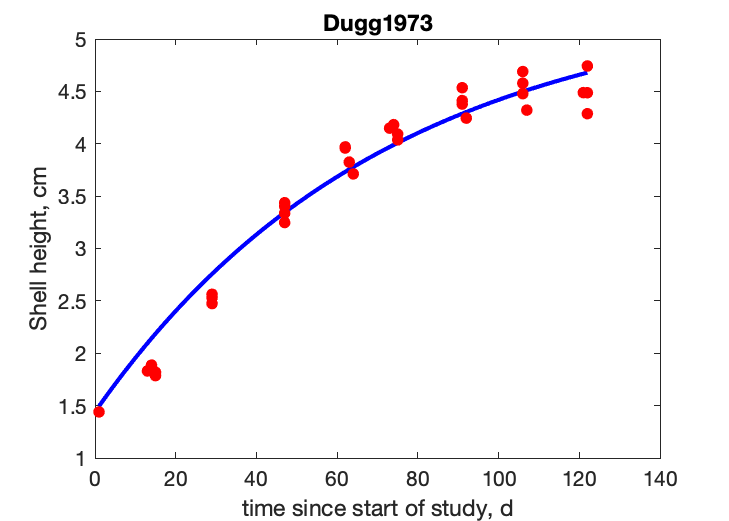
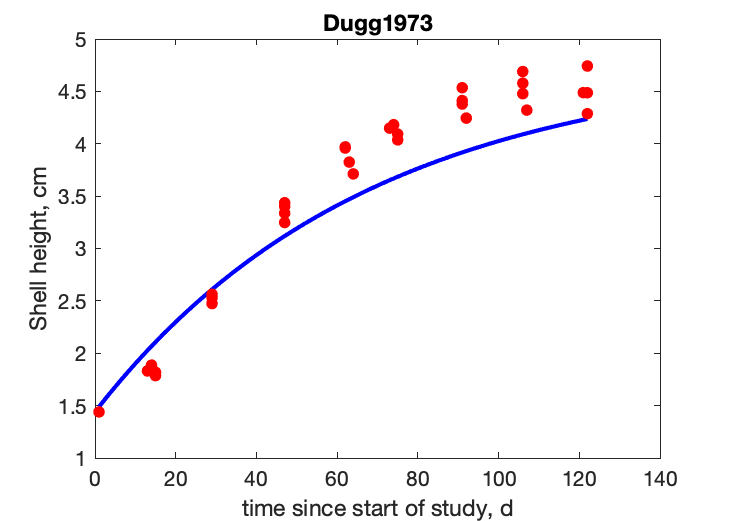
woops

diff --git a/Argopecten_irradians/Argopecten_irradians_res.html b/Argopecten_irradians/Argopecten_irradians_res.html
@@ -44,7 +44,7 @@
   </div>
 
   <div class="par">
-  <h4>COMPLETE = 2.5; MRE =    0.213; SMSE =    0.325 </h4>
+  <h4>COMPLETE = 2.5; MRE =    0.166; SMSE =    0.222 </h4>
   </div>
 
   <p class="clear"></p>
@@ -53,30 +53,30 @@
   <h2>Data & predictions</h2>
   <TABLE id="prd">
     <TR  class="head"><TH>data</TH> <TH>prd</TH> <TH>RE</TH>  <TH>symbol</TH> <TH>units</TH> <TH>description</TH> </TR>
-    <TR><TD>  1</TD> <TD>1.246</TD> <TD>0.2461</TD> <TD>ab</TD> <TD>d</TD> <TD>age at birth</TD></TR>
-    <TR><TD>12.2</TD> <TD>2.238</TD> <TD>0.8165</TD> <TD>aj</TD> <TD>d</TD> <TD>age at metamorphosis</TD></TR>
-    <TR><TD>365</TD> <TD>336.3</TD> <TD>0.07867</TD> <TD>ap</TD> <TD>d</TD> <TD>age at puberty</TD></TR>
-    <TR><TD>790</TD> <TD>790</TD> <TD>2.328e-05</TD> <TD>am</TD> <TD>d</TD> <TD>life span</TD></TR>
-    <TR><TD>0.0081</TD> <TD>0.008778</TD> <TD>0.08376</TD> <TD>Lb</TD> <TD>cm</TD> <TD>shell length at birth</TD></TR>
-    <TR><TD>0.018</TD> <TD>0.01661</TD> <TD>0.07734</TD> <TD>Lj</TD> <TD>cm</TD> <TD>shell length at metamorphosis</TD></TR>
-    <TR><TD>5.5</TD> <TD>5.15</TD> <TD>0.0636</TD> <TD>Lp</TD> <TD>cm</TD> <TD>shell length at puberty</TD></TR>
-    <TR><TD>  9</TD> <TD>8.956</TD> <TD>0.004908</TD> <TD>Li</TD> <TD>cm</TD> <TD>ultimate shell length</TD></TR>
-    <TR><TD>8.39e-07</TD> <TD>9.482e-07</TD> <TD>0.1302</TD> <TD>Wdb</TD> <TD>g</TD> <TD>dry tissue weight at birth</TD></TR>
-    <TR><TD>4.86e-06</TD> <TD>6.421e-06</TD> <TD>0.3212</TD> <TD>Wdj</TD> <TD>g</TD> <TD>dry tissue weight at metamorphosis</TD></TR>
-    <TR><TD>1.6</TD> <TD>1.11</TD> <TD>0.3059</TD> <TD>Wdp</TD> <TD>g</TD> <TD>dry tissue weight at puberty</TD></TR>
-    <TR><TD>5.3</TD> <TD>5.839</TD> <TD>0.1017</TD> <TD>Wdi</TD> <TD>g</TD> <TD>ultimate dry tissue weight</TD></TR>
-    <TR><TD>2137</TD> <TD>  0</TD> <TD>  1</TD> <TD>Ri1</TD> <TD>#/d</TD> <TD>maximum reprod rate at SL 5.15 cm</TD></TR>
-    <TR><TD>4414</TD> <TD>4022</TD> <TD>0.08866</TD> <TD>Ri2</TD> <TD>#/d</TD> <TD>maximum reprod rate at SL 5.49 cm</TD></TR>
-    <TR><TD>0.2</TD> <TD>0.189</TD> <TD>0.05518</TD> <TD>GSI</TD> <TD>-</TD> <TD>gonado somatic index</TD></TR>
-    <TR><TD colspan="2">see figure</TD> <TD>0.04571</TD> <TD>tL1</TD> <TD colspan="2">time since start of study, <font color="blue"><i>vs.</i></font> Shell height</TD>
-    <TR><TD colspan="2">see figure</TD> <TD>0.1235</TD> <TD>tL2</TD> <TD colspan="2">Time since start of study, <font color="blue"><i>vs.</i></font> Shell height</TD>
-    <TR><TD colspan="2">see figure</TD> <TD>0.2832</TD> <TD>tWd</TD> <TD colspan="2">Time since start of study, <font color="blue"><i>vs.</i></font> shell-free wet weight</TD>
-    <TR class="psd"><TD>0.02</TD> <TD>0.01243</TD> <TD>0.3787</TD> <TD>psd.v</TD> <TD>cm/d</TD> <TD>energy conductance</TD></TR>
-    <TR class="psd"><TD>0.8</TD> <TD>0.7698</TD> <TD>0.03774</TD> <TD>psd.kap</TD> <TD>-</TD> <TD>allocation fraction to soma</TD></TR>
-    <TR class="psd"><TD>0.95</TD> <TD>0.95</TD> <TD>  0</TD> <TD>psd.kap_R</TD> <TD>-</TD> <TD>reproduction efficiency</TD></TR>
-    <TR class="psd"><TD> 18</TD> <TD>716.6</TD> <TD>38.81</TD> <TD>psd.p_M</TD> <TD>J/d.cm^3</TD> <TD>vol-spec som maint</TD></TR>
+    <TR><TD>  1</TD> <TD>1.204</TD> <TD>0.2043</TD> <TD>ab</TD> <TD>d</TD> <TD>age at birth</TD></TR>
+    <TR><TD>12.2</TD> <TD>2.304</TD> <TD>0.8112</TD> <TD>aj</TD> <TD>d</TD> <TD>age at metamorphosis</TD></TR>
+    <TR><TD>365</TD> <TD>367.2</TD> <TD>0.005992</TD> <TD>ap</TD> <TD>d</TD> <TD>age at puberty</TD></TR>
+    <TR><TD>790</TD> <TD>785.4</TD> <TD>0.005777</TD> <TD>am</TD> <TD>d</TD> <TD>life span</TD></TR>
+    <TR><TD>0.0081</TD> <TD>0.008391</TD> <TD>0.0359</TD> <TD>Lb</TD> <TD>cm</TD> <TD>shell length at birth</TD></TR>
+    <TR><TD>0.018</TD> <TD>0.0175</TD> <TD>0.02799</TD> <TD>Lj</TD> <TD>cm</TD> <TD>shell length at metamorphosis</TD></TR>
+    <TR><TD>5.5</TD> <TD>5.15</TD> <TD>0.06369</TD> <TD>Lp</TD> <TD>cm</TD> <TD>shell length at puberty</TD></TR>
+    <TR><TD>  9</TD> <TD>8.376</TD> <TD>0.06934</TD> <TD>Li</TD> <TD>cm</TD> <TD>ultimate shell length</TD></TR>
+    <TR><TD>8.39e-07</TD> <TD>7.071e-07</TD> <TD>0.1572</TD> <TD>Wdb</TD> <TD>g</TD> <TD>dry tissue weight at birth</TD></TR>
+    <TR><TD>4.86e-06</TD> <TD>6.411e-06</TD> <TD>0.3191</TD> <TD>Wdj</TD> <TD>g</TD> <TD>dry tissue weight at metamorphosis</TD></TR>
+    <TR><TD>1.6</TD> <TD>1.377</TD> <TD>0.1397</TD> <TD>Wdp</TD> <TD>g</TD> <TD>dry tissue weight at puberty</TD></TR>
+    <TR><TD>5.3</TD> <TD>5.923</TD> <TD>0.1175</TD> <TD>Wdi</TD> <TD>g</TD> <TD>ultimate dry tissue weight</TD></TR>
+    <TR><TD>2137</TD> <TD>2831</TD> <TD>0.3247</TD> <TD>Ri1</TD> <TD>#/d</TD> <TD>maximum reprod rate at SL 5.15 cm</TD></TR>
+    <TR><TD>4414</TD> <TD>3476</TD> <TD>0.2124</TD> <TD>Ri2</TD> <TD>#/d</TD> <TD>maximum reprod rate at SL 5.49 cm</TD></TR>
+    <TR><TD>0.2</TD> <TD>0.1955</TD> <TD>0.0226</TD> <TD>GSI</TD> <TD>-</TD> <TD>gonado somatic index</TD></TR>
+    <TR><TD colspan="2">see figure</TD> <TD>0.08625</TD> <TD>tL1</TD> <TD colspan="2">time since start of study, <font color="blue"><i>vs.</i></font> Shell height</TD>
+    <TR><TD colspan="2">see figure</TD> <TD>0.1038</TD> <TD>tL2</TD> <TD colspan="2">Time since start of study, <font color="blue"><i>vs.</i></font> Shell height</TD>
+    <TR><TD colspan="2">see figure</TD> <TD>0.2782</TD> <TD>tWd</TD> <TD colspan="2">Time since start of study, <font color="blue"><i>vs.</i></font> shell-free wet weight</TD>
+    <TR class="psd"><TD>0.02</TD> <TD>0.01235</TD> <TD>0.3824</TD> <TD>psd.v</TD> <TD>cm/d</TD> <TD>energy conductance</TD></TR>
+    <TR class="psd"><TD>0.8</TD> <TD>0.7633</TD> <TD>0.04591</TD> <TD>psd.kap</TD> <TD>-</TD> <TD>allocation fraction to soma</TD></TR>
+    <TR class="psd"><TD>0.95</TD> <TD>0.475</TD> <TD>0.5</TD> <TD>psd.kap_R</TD> <TD>-</TD> <TD>reproduction efficiency</TD></TR>
+    <TR class="psd"><TD> 18</TD> <TD>617.1</TD> <TD>33.28</TD> <TD>psd.p_M</TD> <TD>J/d.cm^3</TD> <TD>vol-spec som maint</TD></TR>
     <TR class="psd"><TD>0.002</TD> <TD>0.002</TD> <TD>  0</TD> <TD>psd.k_J</TD> <TD>1/d</TD> <TD>maturity maint rate coefficient</TD></TR>
-    <TR class="psd"><TD>0.8</TD> <TD>0.7992</TD> <TD>0.0009699</TD> <TD>psd.kap_G</TD> <TD>-</TD> <TD>growth efficiency</TD></TR>
+    <TR class="psd"><TD>0.8</TD> <TD>0.8016</TD> <TD>0.00197</TD> <TD>psd.kap_G</TD> <TD>-</TD> <TD>growth efficiency</TD></TR>
   </TABLE>
   </div>
 
@@ -86,29 +86,29 @@
     <TR class="head"><TH>symbol</TH> <TH>units</TH> <TH>value</TH>  <TH>free</TH> <TH>description</TH> </TR>
     <TR><TD>T_ref</TD> <TD>K</TD> <TD>293.1</TD> <TD>0</TD> <TD>Reference temperature</TD></TR>
     <TR><TD>T_A</TD> <TD>K</TD> <TD>8000</TD> <TD>0</TD> <TD>Arrhenius temperature</TD></TR>
-    <TR><TD>z</TD> <TD>-</TD> <TD>0.7106</TD> <TD>1</TD> <TD>zoom factor</TD></TR>
+    <TR><TD>z</TD> <TD>-</TD> <TD>0.6845</TD> <TD>1</TD> <TD>zoom factor</TD></TR>
     <TR><TD>F_m</TD> <TD>l/d.cm^2</TD> <TD>6.5</TD> <TD>0</TD> <TD>{F_m}, max spec searching rate</TD></TR>
     <TR><TD>kap_X</TD> <TD>-</TD> <TD>0.8</TD> <TD>0</TD> <TD>digestion efficiency of food to reserve</TD></TR>
     <TR><TD>kap_P</TD> <TD>-</TD> <TD>0.1</TD> <TD>0</TD> <TD>faecation efficiency of food to faeces</TD></TR>
-    <TR><TD>v</TD> <TD>cm/d</TD> <TD>0.01243</TD> <TD>1</TD> <TD>energy conductance</TD></TR>
-    <TR><TD>kap</TD> <TD>-</TD> <TD>0.7698</TD> <TD>1</TD> <TD>allocation fraction to soma</TD></TR>
-    <TR><TD>kap_R</TD> <TD>-</TD> <TD>0.95</TD> <TD>0</TD> <TD>reproduction efficiency</TD></TR>
-    <TR><TD>p_M</TD> <TD>J/d.cm^3</TD> <TD>716.6</TD> <TD>1</TD> <TD>[p_M], vol-spec somatic maint</TD></TR>
+    <TR><TD>v</TD> <TD>cm/d</TD> <TD>0.01235</TD> <TD>1</TD> <TD>energy conductance</TD></TR>
+    <TR><TD>kap</TD> <TD>-</TD> <TD>0.7633</TD> <TD>1</TD> <TD>allocation fraction to soma</TD></TR>
+    <TR><TD>kap_R</TD> <TD>-</TD> <TD>0.475</TD> <TD>0</TD> <TD>reproduction efficiency</TD></TR>
+    <TR><TD>p_M</TD> <TD>J/d.cm^3</TD> <TD>617.1</TD> <TD>1</TD> <TD>[p_M], vol-spec somatic maint</TD></TR>
     <TR><TD>p_T</TD> <TD>J/d.cm^2</TD> <TD>  0</TD> <TD>0</TD> <TD>{p_T}, surf-spec somatic maint</TD></TR>
     <TR><TD>k_J</TD> <TD>1/d</TD> <TD>0.002</TD> <TD>0</TD> <TD>maturity maint rate coefficient</TD></TR>
-    <TR><TD>E_G</TD> <TD>J/cm^3</TD> <TD>2356</TD> <TD>1</TD> <TD>[E_G], spec cost for structure</TD></TR>
-    <TR><TD>E_Hb</TD> <TD>J</TD> <TD>0.0003165</TD> <TD>1</TD> <TD>maturity at birth</TD></TR>
-    <TR><TD>E_Hj</TD> <TD>J</TD> <TD>0.002226</TD> <TD>1</TD> <TD>maturity at metamorphosis</TD></TR>
-    <TR><TD>E_Hp</TD> <TD>J</TD> <TD>4872</TD> <TD>1</TD> <TD>maturity at puberty</TD></TR>
-    <TR><TD>h_a</TD> <TD>1/d^2</TD> <TD>4.926e-06</TD> <TD>1</TD> <TD>Weibull aging acceleration</TD></TR>
+    <TR><TD>E_G</TD> <TD>J/cm^3</TD> <TD>2349</TD> <TD>1</TD> <TD>[E_G], spec cost for structure</TD></TR>
+    <TR><TD>E_Hb</TD> <TD>J</TD> <TD>0.0002823</TD> <TD>1</TD> <TD>maturity at birth</TD></TR>
+    <TR><TD>E_Hj</TD> <TD>J</TD> <TD>0.002649</TD> <TD>1</TD> <TD>maturity at metamorphosis</TD></TR>
+    <TR><TD>E_Hp</TD> <TD>J</TD> <TD>7092</TD> <TD>1</TD> <TD>maturity at puberty</TD></TR>
+    <TR><TD>h_a</TD> <TD>1/d^2</TD> <TD>4.857e-06</TD> <TD>1</TD> <TD>Weibull aging acceleration</TD></TR>
     <TR><TD>s_G</TD> <TD>-</TD> <TD>0.0001</TD> <TD>0</TD> <TD>Gompertz stress coefficient</TD></TR>
     <TR><TD>Lw_0_tL1</TD> <TD>cm</TD> <TD>1.44</TD> <TD>0</TD> <TD>initial shell height for tL1 data</TD></TR>
     <TR><TD>Lw_0_tL2</TD> <TD>cm</TD> <TD>1.04</TD> <TD>0</TD> <TD>initial shell height for tL2 data</TD></TR>
     <TR><TD>Wd0</TD> <TD>g</TD> <TD>  1</TD> <TD>0</TD> <TD>dry weight for TJO data</TD></TR>
-    <TR><TD>del_M</TD> <TD>-</TD> <TD>0.1501</TD> <TD>1</TD> <TD>shape coefficient</TD></TR>
-    <TR><TD>del_Mb</TD> <TD>-</TD> <TD>0.8355</TD> <TD>1</TD> <TD>shape coefficient before metamorphosis</TD></TR>
+    <TR><TD>del_M</TD> <TD>-</TD> <TD>0.1704</TD> <TD>1</TD> <TD>shape coefficient</TD></TR>
+    <TR><TD>del_Mb</TD> <TD>-</TD> <TD>0.8376</TD> <TD>1</TD> <TD>shape coefficient before metamorphosis</TD></TR>
     <TR><TD>f</TD> <TD>-</TD> <TD>  1</TD> <TD>0</TD> <TD>scaled functional response for 0-var data</TD></TR>
-    <TR><TD>f_tL1</TD> <TD>-</TD> <TD>0.6041</TD> <TD>1</TD> <TD>scaled functional response for tL1</TD></TR>
+    <TR><TD>f_tL1</TD> <TD>-</TD> <TD>0.5718</TD> <TD>1</TD> <TD>scaled functional response for tL1</TD></TR>
     <TR><TD>f_tL2</TD> <TD>-</TD> <TD>  1</TD> <TD>1</TD> <TD>scaled functional response for tL2</TD></TR>
   </TABLE>
   </div>

diff --git a/Argopecten_irradians/pars_init_Argopecten_irradians.m b/Argopecten_irradians/pars_init_Argopecten_irradians.m
@@ -13,7 +13,7 @@ par.kap_X = 0.8;      free.kap_X = 0;   units.kap_X = '-';        label.kap_X = 
 par.kap_P = 0.1;      free.kap_P = 0;   units.kap_P = '-';        label.kap_P = 'faecation efficiency of food to faeces'; 
 par.v = 0.012426;     free.v     = 1;   units.v = 'cm/d';         label.v = 'energy conductance'; 
 par.kap = 0.76981;    free.kap   = 1;   units.kap = '-';          label.kap = 'allocation fraction to soma'; 
-par.kap_R = 0.95;     free.kap_R = 0;   units.kap_R = '-';        label.kap_R = 'reproduction efficiency'; 
+par.kap_R = 0.95/2;     free.kap_R = 0;   units.kap_R = '-';        label.kap_R = 'reproduction efficiency'; 
 par.p_M = 716.623;    free.p_M   = 1;   units.p_M = 'J/d.cm^3';   label.p_M = '[p_M], vol-spec somatic maint'; 
 par.p_T = 0;          free.p_T   = 0;   units.p_T = 'J/d.cm^2';   label.p_T = '{p_T}, surf-spec somatic maint'; 
 par.k_J = 0.002;      free.k_J   = 0;   units.k_J = '1/d';        label.k_J = 'maturity maint rate coefficient'; 

diff --git a/Argopecten_irradians/run_Argopecten_irradians.m b/Argopecten_irradians/run_Argopecten_irradians.m
@@ -5,13 +5,13 @@ pets = {'Argopecten_irradians'};
 check_my_pet(pets);
 
 estim_options('default');
-estim_options('max_step_number', 100e2);
+estim_options('max_step_number', 5e2);
 estim_options('max_fun_evals', 5e3);
 
 estim_options('pars_init_method', 2); 
 % 2 reads from pars_init file
 % 1 reads from estimation output
-estim_options('results_output', 5); 
-estim_options('method', 'no'); 
+estim_options('results_output', 3); 
+estim_options('method', 'nm'); 
 
 estim_pars; 
